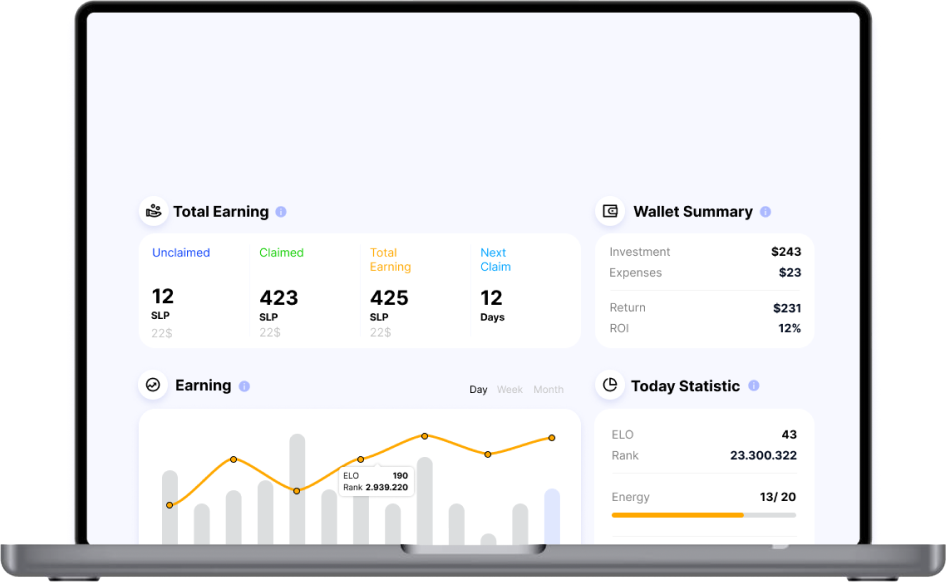
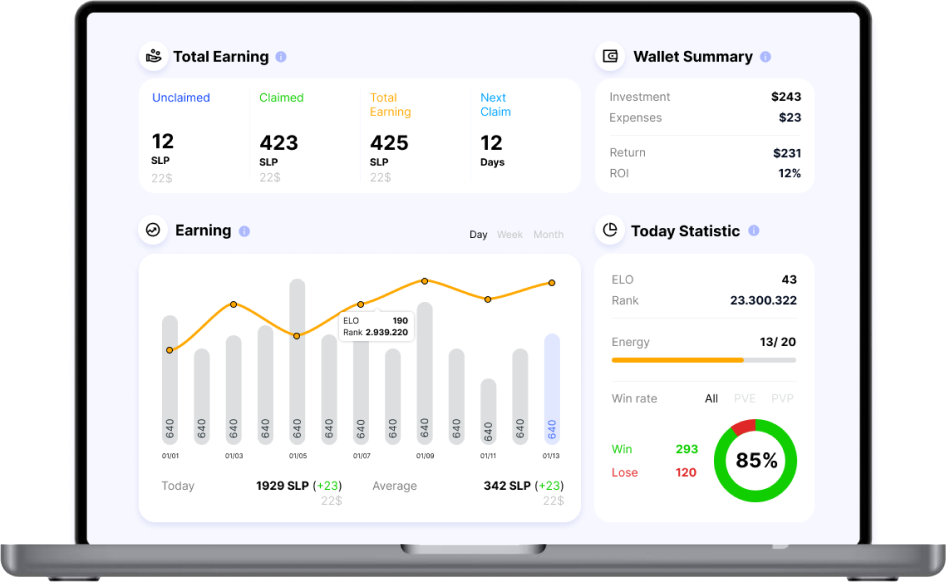
Make Responsive

diff --git a/components/partials/Dashboard/Multiple.vue b/components/partials/Dashboard/Multiple.vue
@@ -12,7 +12,7 @@
           <div class="p-4 flex flex-col">
             <div class="flex-1">
               <div class="text-2xl font-bold ">${{ total.toLocaleString() }}</div>
-              <span class="text-[#10CE00]">(+23 Today)</span>
+              <span v-if="false" class="text-[#10CE00]">(+23 Today)</span>
             </div>
             <div>
               <div class="flex justify-between">
@@ -36,11 +36,14 @@
               <div>Month</div>
             </div>
             <div class="flex space-x-4 items-end h-40">
-              <div
-                class="flex-1 bg-white chart-elm bg-opacity-20 hover:bg-opacity-100 hover:text-black duration-200"
-                v-for="i in 7" :key="i" :style="{height: `${RD(20, 100)}%`}">
-                <span>{{ RD(20, 100) }}</span>
-              </div>
+              <template v-for="i in 7">
+                <div
+                  :key="i"
+                  class="flex-1 bg-white chart-elm bg-opacity-20 hover:bg-opacity-100 hover:text-black duration-200"
+                  :style="{height: `${reports[i - 1] ? reports[i - 1].h : 0}%`}">
+                  <span>{{ reports[i - 1] ? reports[i - 1].v : '|' }}</span>
+                </div>
+              </template>
             </div>
           </div>
         </div>
@@ -114,13 +117,18 @@ export default {
       claimed: 0,
       unClaimed: 0,
       totalNFT: 0,
-      totalScholar: 0
+      totalScholar: 0,
+      range: 7,
+      reports: []
     }
   },
   computed: {
     games() {
-      return this.$store.state.config.dashboard || schemas.DASHBOARD
-    }
+      return this.$store.state.config.dashboard || []
+    },
+    rates() {
+      return this.$store.state.config.priceRates
+    },
   },
   watch: {
     games: {
@@ -128,6 +136,15 @@ export default {
       handler: function () {
         this.compute()
       }
+    },
+    rates: {
+      deep: true,
+      handler: function () {
+        this.compute()
+      }
+    },
+    range() {
+      this.loadReport()
     }
   },
   methods: {
@@ -138,20 +155,41 @@ export default {
       this.total = 0;
       this.claimed = 0;
       this.unClaimed = 0;
-      this.games.forEach(game => {
+      for (let i = 0; i < this.games.length; i++) {
+        let game = this.games[i];
         const rate = this.$store.getters["config/getPriceRate"](game.options["token_in_game"]);
         const rateValue = rate ? rate.price : 0;
-        game.wallets.forEach(wallet => {
-          this.total = this.total + wallet.totalEarning * rateValue;
-          this.claimed = this.claimed + wallet.claimed * rateValue;
-          this.unClaimed = this.unClaimed + wallet.unclaimed * rateValue;
-          this.totalNFT = this.totalNFT + wallet.totalNFT
-        })
-        if (game.wallets.length) {
-          this.totalScholar ++
+        for (let j = 0; j < game.wallets.length; j++) {
+          const wallet = game.wallets[j];
+          this.total = this.total + +wallet.totalEarning * rateValue;
+          this.claimed = this.claimed + +wallet.claimed * rateValue;
+          this.unClaimed = this.unClaimed + +wallet.unclaimed * rateValue;
+          this.totalNFT = this.totalNFT + +wallet.totalNFT
         }
+        if (game.wallets.length) {
+          this.totalScholar++
+        }
+      }
+    },
+    loadReport() {
+      this.$axios.$get("/report", {
+        params: {
+          range: this.range
+        }
+      }).then(res => {
+        const max = Math.max(res.map(x => +x.value)) * 1.2;
+        this.reports = res.map(x => ({
+          v: +x.value,
+          h: (+x.value / max) * 100,
+          d: x.date
+        }))
       })
+
     }
+  },
+  mounted() {
+    this.compute();
+    this.loadReport()
   }
 }
 </script>

diff --git a/components/partials/Dashboard/Statistic.vue b/components/partials/Dashboard/Statistic.vue
@@ -40,11 +40,11 @@
         <div class="flex-1">
           <div class="flex justify-between">
             <span>Win</span>
-            <span>{{ win }}</span>
+            <span>{{ data.win_rate.win }}</span>
           </div>
           <div class="flex justify-between">
             <span>Lose</span>
-            <span>{{ data.battle_logs.length - win }}</span>
+            <span>{{ data.win_rate.win * data.win_rate.result }}</span>
           </div>
         </div>
         <div class="w-1/3">
@@ -137,7 +137,7 @@ export default {
           'Win',
         ],
         datasets: [{
-          data: [this.data.battle_logs.length - this.win, this.win],
+          data: [this.data.win_rate.result * this.data.win_rate.win, this.data.win_rate.win],
           backgroundColor: [
             'rgb(255, 99, 132)',
             'rgb(54, 162, 235)',

diff --git a/components/partials/Game/Report.vue b/components/partials/Game/Report.vue
@@ -64,7 +64,7 @@
               <td class="py-3 px-4 text-left">{{ item.todayEarning }}</td>
               <td class="py-3 px-4 text-left">{{(item.earning_rate || 1) * 100}}%</td>
               <td class="py-3 px-4 text-left hidden md:table-cell">{{ item.elo }}</td>
-              <td class="py-3 px-4 text-left hidden md:table-cell">{{ ((item.win_rate || 0) * 100).toLocaleString() }}%</td>
+              <td class="py-3 px-4 text-left hidden md:table-cell">{{ (item.win_rate.result * 100).toLocaleString() }}%</td>
               <td class="py-3 px-4 text-right hidden md:table-cell">{{item.totalNFT}}</td>
             </tr>
           </template>

diff --git a/components/partials/Dashboard/Earning.vue b/components/partials/Dashboard/Earning.vue
@@ -23,7 +23,10 @@
       <div class="flex justify-between">
         <h4 class="font-bold">Today</h4>
         <div v-if="data.daily_earnings">
-          <div>{{ data.daily_earnings.toLocaleString() }} (<span class="text-green-400">+23</span>)</div>
+          <div>
+            {{ data.daily_earnings.toLocaleString() }}
+<!--            (<span class="text-green-400">+23</span>)-->
+          </div>
           <span>{{ (getCurrentPriceRate * data.daily_earnings).toLocaleString() }}$</span>
         </div>
       </div>

diff --git a/store/config.js b/store/config.js
@@ -16,7 +16,7 @@ export default {
         }
       }
     ],
-    dashboard: schemas.DASHBOARD,
+    dashboard: [],
     wallet: schemas.WALLET,
     modal: null,
     priceRates: [],
